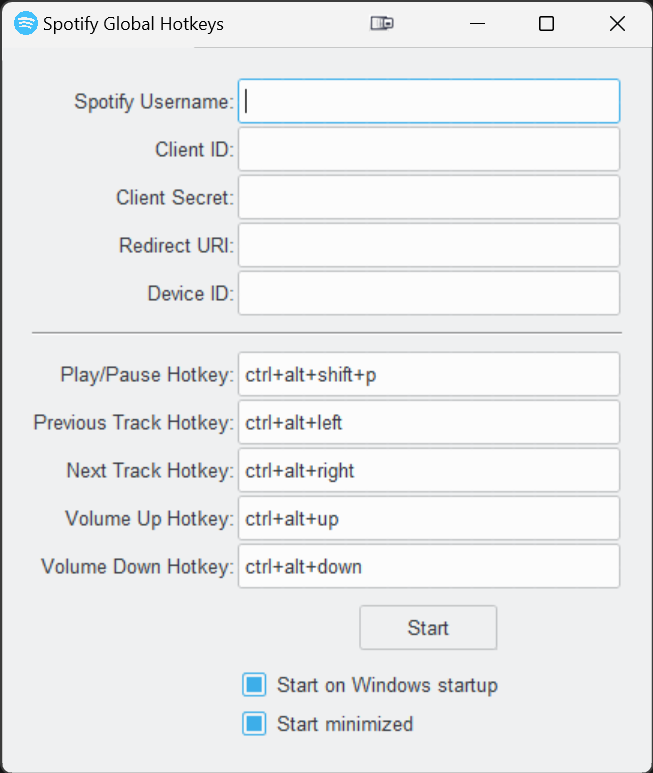
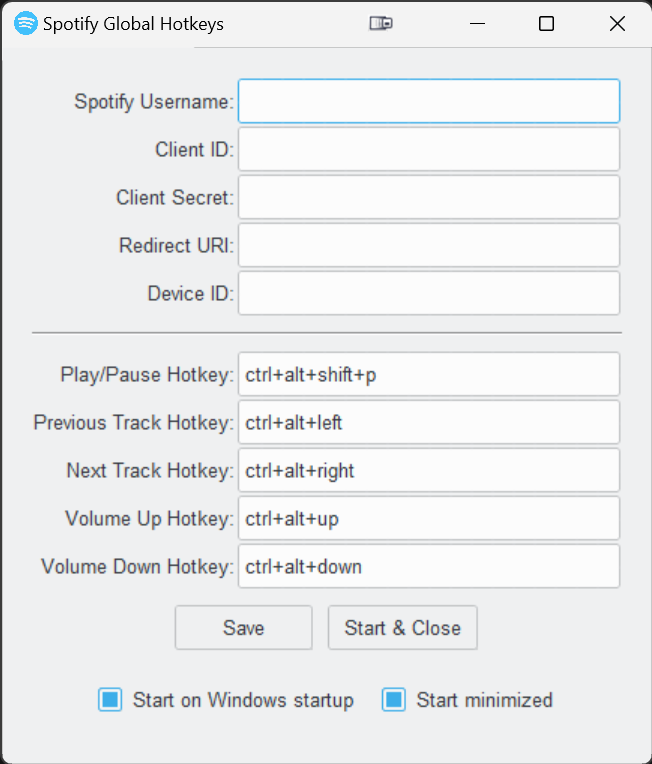
Check token expiry and input error checking

diff --git a/SpotifyGlobalHotkeys/spotify_global_hotkeys.py b/SpotifyGlobalHotkeys/spotify_global_hotkeys.py
@@ -14,10 +14,12 @@ import threading
 import json.decoder
 import winreg as reg
 import tkinter as tk
+import tkinter.messagebox as messagebox
 from PIL import Image
 from tkinter import ttk
 from ttkthemes import ThemedTk
 from spotipy.oauth2 import SpotifyOAuth
+from datetime import datetime
 
 class SpotifyGlobalHotkeysApp(object):
     def __init__(self):
@@ -30,6 +32,7 @@ class SpotifyGlobalHotkeysApp(object):
                 base_path = os.path.dirname(os.path.abspath(__file__))
             return os.path.join(base_path, relative_path)
         
+        # Create paths
         self.app_folder = os.path.join(os.environ['APPDATA'], '.spotify_global_hotkeys')
         os.makedirs(self.app_folder, exist_ok=True)
         self.config_path = os.path.join(self.app_folder, 'config.json')
@@ -66,7 +69,10 @@ class SpotifyGlobalHotkeysApp(object):
         self.minimize_var = None
 
         # Spotify access token
+        self.auth_manager = None
+        self.token_data = None
         self.token = None
+        self.expires_in = None
         
         self.refresh_thread_running = False
                 
@@ -135,11 +141,29 @@ class SpotifyGlobalHotkeysApp(object):
             print(f'Error saving config: {e}')
         except Exception as e:
             print(f'Unexpected error while saving config: {e}')
+            
+    def ErrorMessage(self, message):
+        messagebox.showerror("Error", message)
         
     # --------------------------------------------------------------------------------------- #
     '''
     API
     '''
+    def CheckTokenExpiry(self):
+        cache_file = os.path.join(self.app_folder, f'.cache-{self.username}')
+
+        if os.path.exists(cache_file):
+            with open(cache_file, 'r') as f:
+                cache_data = json.load(f)
+                
+            expires_at = cache_data['expires_at']
+            if datetime.now().timestamp() >= expires_at:
+                print('Cached token has expired')
+                self.CreateToken()
+        else:
+            print('Could not find .cache file. Creating token...')
+            self.CreateToken()
+        
     def RefreshToken(self, auth_manager, expires_in):
         while True:
             time.sleep(expires_in - 60)  # Sleep until the token needs to be refreshed
@@ -147,39 +171,48 @@ class SpotifyGlobalHotkeysApp(object):
             token_data = auth_manager.refresh_access_token(auth_manager.get_cached_token()['refresh_token'])
             self.token = token_data['access_token']
             expires_in = token_data['expires_in']
+        
+    def RefreshToken(self):
+        while True:
+            time.sleep(self.expires_in - 60)  # Sleep until the token needs to be refreshed
+            print('Refreshing token')
+            self.token_data = self.auth_manager.refresh_access_token(self.auth_manager.get_cached_token()['refresh_token'])
+            self.token = self.token_data['access_token']
+            self.expires_in = self.token_data['expires_in']
             
     def CreateToken(self):
         print('Creating token')
         cache_file = os.path.join(self.app_folder, f'.cache-{self.username}')
-        auth_manager = SpotifyOAuth(username=self.username,
-                                    scope=self.scope,
-                                    client_id=self.client_id,
-                                    client_secret=self.client_secret,
-                                    redirect_uri=self.redirect_uri,
-                                    cache_path=cache_file)
         try:
-            token_data = auth_manager.refresh_access_token(auth_manager.get_cached_token()['refresh_token'])
+            self.auth_manager = SpotifyOAuth(username=self.username,
+                                            scope=self.scope,
+                                            client_id=self.client_id,
+                                            client_secret=self.client_secret,
+                                            redirect_uri=self.redirect_uri,
+                                            cache_path=cache_file)
         except:
-            token_data = auth_manager.get_access_token()
+            self.ErrorMessage('Invalid credentials. Please check your input fields.')
+            return False
+        
+        try:
+            self.token_data = self.auth_manager.refresh_access_token(self.auth_manager.get_cached_token()['refresh_token'])
+        except:
+            self.token_data = self.auth_manager.get_access_token()
 
-        self.token = token_data['access_token']
-        expires_in = token_data['expires_in']
+        self.token = self.token_data['access_token']
+        self.expires_in = self.token_data['expires_in']
 
         # Start the loop to refresh the token before it expires, if not already running
         if not self.refresh_thread_running:
             print('Created refresh thread')
-            refresh_thread = threading.Thread(target=self.RefreshToken, args=(auth_manager, expires_in))
+            refresh_thread = threading.Thread(target=self.RefreshToken)
             refresh_thread.daemon = True
             refresh_thread.start()
             self.refresh_thread_running = True
+            
+        return True
               
     def HandleConnectionError(self, retry_count=0):
-        if retry_count >= 3:
-            print("Maximum retries reached. Aborting.")
-            return
-
-        self.CreateToken()  # Recreate token
-
         # Connection error occurs when device is no longer active, so play music on specific device id
         headers = {'Authorization': 'Bearer ' + self.token}
         url = f'https://api.spotify.com/v1/me/player/play?device_id={self.device_id}'
@@ -196,8 +229,6 @@ class SpotifyGlobalHotkeysApp(object):
             print('Playing music')
         except Exception as e:
             print(f'Error: {e}')
-            print(f'Retrying... {retry_count + 1}')
-            self.HandleConnectionError(retry_count=retry_count + 1)
  
     def GetPlaybackState(self):
         headers = {'Authorization': 'Bearer ' + self.token}
@@ -213,6 +244,8 @@ class SpotifyGlobalHotkeysApp(object):
             return None
  
     def PlayPause(self):
+        self.CheckTokenExpiry()
+        
         is_playing = self.GetPlaybackState()
         if is_playing is None:
             return
@@ -235,6 +268,8 @@ class SpotifyGlobalHotkeysApp(object):
             print(f'Error: {e}')
             
     def PrevNext(self, command):
+        self.CheckTokenExpiry()
+        
         headers = {'Authorization': 'Bearer ' + self.token}
         url = f'https://api.spotify.com/v1/me/player/{command}?device_id={self.device_id}'
         try:
@@ -248,6 +283,8 @@ class SpotifyGlobalHotkeysApp(object):
             print(f'Error: {e}')
 
     def AdjustVolume(self, amount):
+        self.CheckTokenExpiry()
+        
         headers = {'Authorization': 'Bearer ' + self.token}
         self.last_volume = self.GetCurrentVolume()
         url = f'https://api.spotify.com/v1/me/player/volume?volume_percent={self.last_volume + amount}&device_id={self.device_id}'
@@ -305,7 +342,6 @@ class SpotifyGlobalHotkeysApp(object):
         root = ThemedTk(theme='breeze')
         root.title('Spotify Global Hotkeys')
         root.iconbitmap(self.icon_path)
-        root.focus_force()
         
         def center_window(window):
             window.update_idletasks()
@@ -314,7 +350,10 @@ class SpotifyGlobalHotkeysApp(object):
             x = (window.winfo_screenwidth() // 2) - (width // 2)
             y = (window.winfo_screenheight() // 2) - (height // 2)
             window.geometry(f'{width}x{height}+{x}+{y}')
-            window.after(1, lambda: window.focus_force())
+            window.after(100, lambda: window.focus_force())
+            
+        def save_action():
+            self.SaveConfig()
         
         def start_action():
             self.username = username_entry.get()
@@ -330,12 +369,13 @@ class SpotifyGlobalHotkeysApp(object):
             self.hotkeys['volume_down'] = volume_down_entry.get()
             self.SetHotkeys()
 
-            self.SaveConfig()
             self.SetStartup(self.startup_var.get())
-            root.destroy()
-            self.CreateToken()
-            if not self.app.visible:
-                self.run()
+            if not self.CreateToken():
+                return
+            else:
+                root.destroy()
+                if not self.app.visible:
+                    self.run()
 
         # Create a frame with padding
         frame = ttk.Frame(root, padding=20)
@@ -367,9 +407,11 @@ class SpotifyGlobalHotkeysApp(object):
         next_track_entry = ttk.Entry(frame, width=35)
         volume_up_entry = ttk.Entry(frame, width=35)
         volume_down_entry = ttk.Entry(frame, width=35)
-
-        # Button
-        start_button = ttk.Button(frame, text='Start', command=start_action)
+        
+        # Buttons
+        button_frame = ttk.Frame(frame)
+        save_button = ttk.Button(button_frame, text='Save', command=save_action)
+        start_button = ttk.Button(button_frame, text='Start & Close', command=start_action)
         
         # Checkboxes
         self.startup_var = tk.BooleanVar()
@@ -406,8 +448,9 @@ class SpotifyGlobalHotkeysApp(object):
             self.minimize_var.set(False)
         
         # Checkboxes
-        startup_checkbox = ttk.Checkbutton(frame, text='Start on Windows startup', variable=self.startup_var)
-        minimize_checkbox = ttk.Checkbutton(frame, text='Start minimized', variable=self.minimize_var)
+        checkbox_frame = ttk.Frame(frame)
+        startup_checkbox = ttk.Checkbutton(checkbox_frame, text='Start on Windows startup', variable=self.startup_var)
+        minimize_checkbox = ttk.Checkbutton(checkbox_frame, text='Start minimized', variable=self.minimize_var)
         
         # Grid layout
         username_label.grid(row=0, column=0, sticky='E')
@@ -430,12 +473,16 @@ class SpotifyGlobalHotkeysApp(object):
         volume_up_label.grid(row=10, column=0, sticky='E')
         volume_up_entry.grid(row=10, column=1)
         volume_down_label.grid(row=11, column=0, sticky='E')
-        volume_down_entry.grid(row=11, column=1)
-        start_button.grid(row=12, column=1, pady=10)    
-        startup_checkbox.grid(row=13, column=1, sticky='W')
-        minimize_checkbox.grid(row=14, column=1, sticky='W')
+        volume_down_entry.grid(row=11, column=1) 
+        button_frame.grid(row=12, column=0, columnspan=2, pady=10)
+        save_button.pack(side='left', padx=(0, 5))
+        start_button.pack(side='left', padx=(5, 0))
+        checkbox_frame.grid(row=13, column=0, columnspan=2, pady=10)
+        startup_checkbox.pack(side='left', padx=(0, 5))
+        minimize_checkbox.pack(side='left', padx=(5, 0))
 
         # Run the GUI
+        root.focus_force()
         center_window(root)
         root.mainloop()
         
